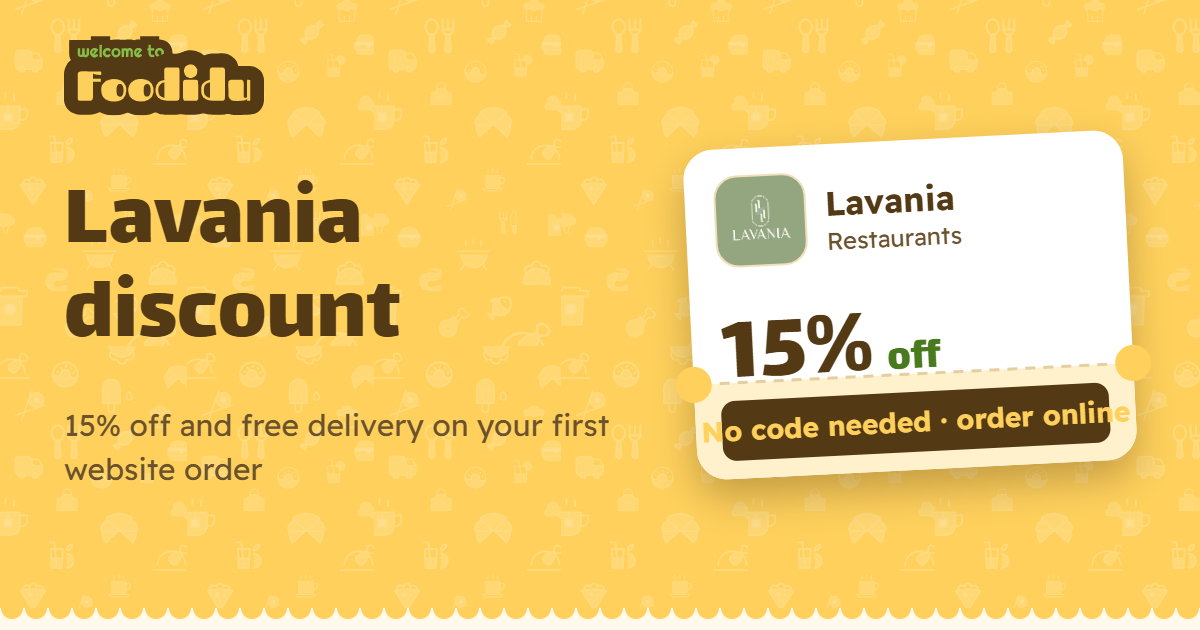
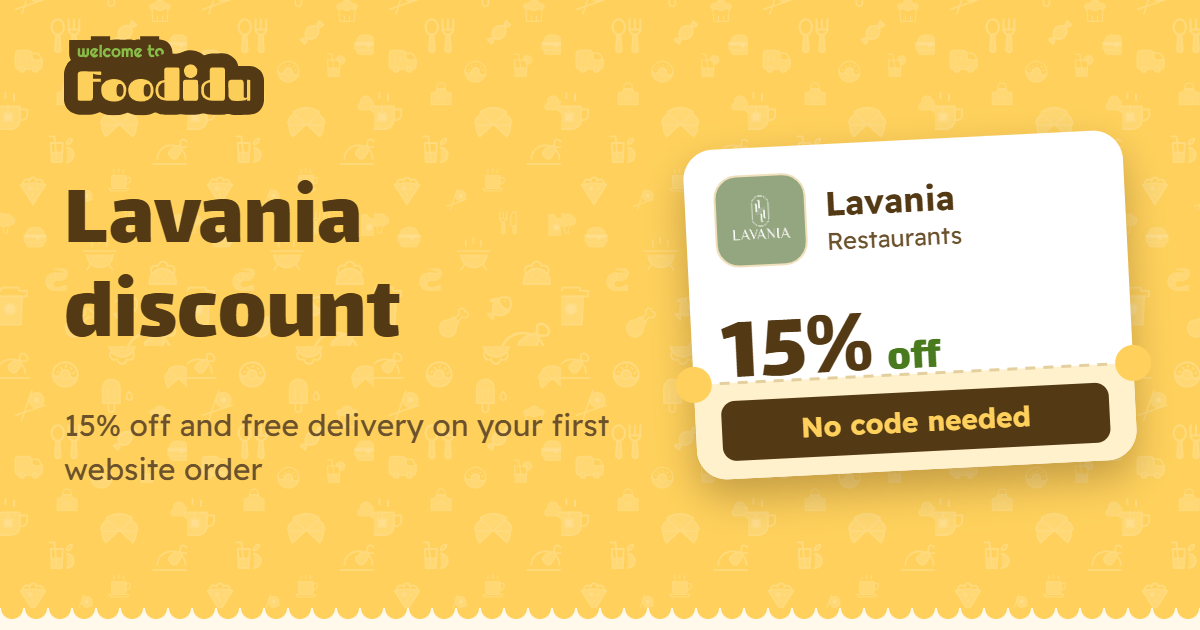
Add TBS: coffee + donut or croissant for 150 EGP through the TBS app
From TBS's own ad: redeemed in-store with the TBS app, no code. No-code brands can now carry
their own how-to steps (TBS: download the app, pick the pair, redeem at the branch), with the
FAQ answer built from the offer and its terms. The share-image pill for no-code offers now just
says "No code needed". Logo: the TBS app's App Store icon, cropped inside its rounded corners.

Changed region(s): [[0.5858, 0.6333, 0.9558, 0.7238]]

diff --git a/static/js/admin.js b/static/js/admin.js
@@ -11,7 +11,7 @@ window.FoodiduAdmin = (() => {
   const ICONS = [["fork", "مطاعم"], ["pizza", "بيتزا"], ["basket", "بقالة"], ["bag", "تسوق"], ["gift", "هدية"], ["tag", "خصم"]];
   const RESERVED = ["ar", "en", "promo-codes", "partners", "day-deals", "privacy-policy", "terms-and-conditions", "dashboard", "img", "css", "js", "pages", "components", "404"];
   // key order in the JSON files, so a saved entry looks like the ones written by hand
-  const BRAND_KEYS = ["key", "slug", "name", "logo", "code", "noCode", "category", "region", "regionLabel", "exclusive", "featured", "priority", "url", "urlLabel", "lastVerified", "badge", "offer", "terms", "where", "moreCodes", "about", "seo"];
+  const BRAND_KEYS = ["key", "slug", "name", "logo", "code", "noCode", "category", "region", "regionLabel", "exclusive", "featured", "priority", "url", "urlLabel", "lastVerified", "badge", "offer", "terms", "where", "steps", "moreCodes", "about", "seo"];
   const REST_KEYS = ["key", "slug", "name", "logo", "category", "region", "menu", "website", "phone", "cuisine", "lastChecked", "validUntil", "about", "seo", "offers"];
   const DEAL_KEYS = ["id", "brand", "name", "logo", "icon", "region", "url", "featured", "days", "title", "details", "source", "sourceLabel", "lastChecked"];
   let REPO = "", root = null, token = null;

diff --git a/tools/assets.html b/tools/assets.html
@@ -46,7 +46,8 @@ const LOGOS = {
   "zad-market":      { src: "zad-market.jpg",       pad: 0,   bg: "#0E4D2C", from: "/__tools/logo-src/", hq: true },   // App Store icon
   "instashop":       { src: "instashop.jpg",        pad: 0,   bg: "#EC0B7E", from: "/__tools/logo-src/", hq: true },   // App Store icon
   "pizza-king":      { src: "pizza-king.jpg",       pad: 0,   bg: "#0F4C8A", from: "/__tools/logo-src/", hq: true },   // App Store icon
-  "lavania":         { src: "lavania.jpg",          pad: 0,   bg: "#95A684", from: "/__tools/logo-src/", hq: true }    // App Store icon
+  "lavania":         { src: "lavania.jpg",          pad: 0,   bg: "#95A684", from: "/__tools/logo-src/", hq: true },   // App Store icon
+  "tbs":             { src: "tbs.jpg",              pad: .06, bg: "auto", crop: [60, 60, 392, 392], from: "/__tools/logo-src/", hq: true }   // the TBS app's App Store icon, inside its rounded corners
 };
 
 // a logo tile at 384 px plus the 192 px copy the pages use for small tiles

diff --git a/static/js/art.js b/static/js/art.js
@@ -88,7 +88,7 @@ function ogJobs(e, kind) {
       const badge = { en: [String(min), "EGP"], ar: [`${min} جنيه`, "من"] };
       return { lang, file: `${e.key}-${lang}`, text, items: [{ ...e, badge, tag: lang === "ar" ? `وفّر حتى ${save}%` : `Save up to ${save}%` }] };
     }
-    if (e.noCode) return { lang, file: `${e.key}-${lang}`, text: brandOgCopy(e, lang), items: [{ ...e, tag: lang === "ar" ? "بدون كود · اطلب أونلاين" : "No code needed · order online" }] };
+    if (e.noCode) return { lang, file: `${e.key}-${lang}`, text: brandOgCopy(e, lang), items: [{ ...e, tag: lang === "ar" ? "بدون كود" : "No code needed" }] };
     return { lang, file: `${e.key}-${lang}`, text: brandOgCopy(e, lang), items: [e, ...(e.moreCodes || []).map((x) => ({ ...e, code: x.code, badge: x.badge }))] };
   });
 }
